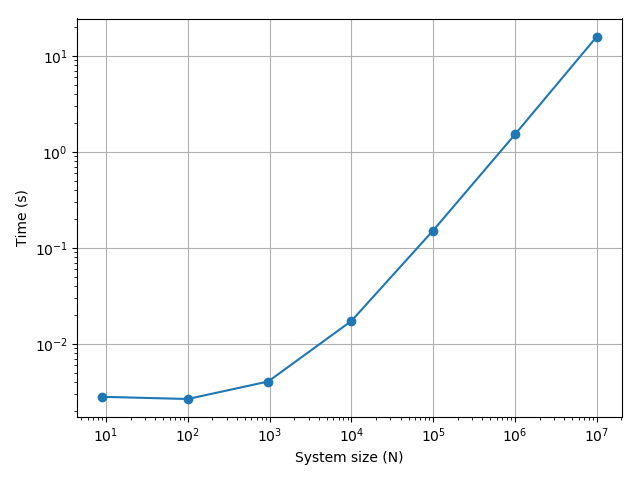
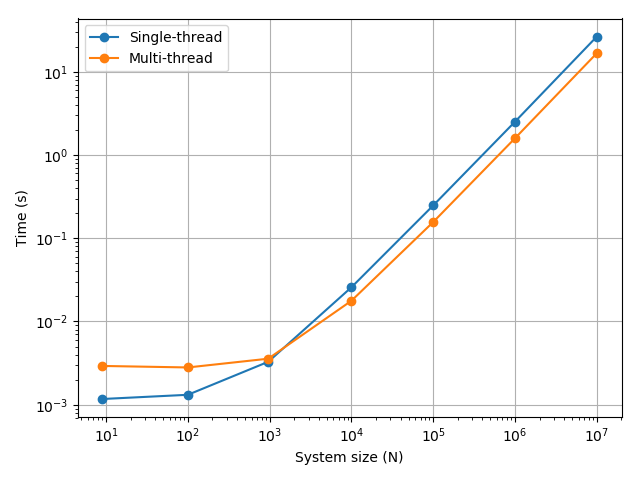
better dtypes

Changed region(s): [[0.0625, 0.0625, 0.9688, 0.8438], [0.0625, 0.6562, 0.125, 0.875], [0.1562, 0.875, 0.1875, 0.9375]]

diff --git a/lattpy/utils.py b/lattpy/utils.py
@@ -91,6 +91,34 @@ def split_index(index):
     return index[:-1], index[-1]
 
 
+def min_dtype(a: Union[int, float, np.ndarray, Iterable],
+              signed: Optional[bool] = True) -> np.dtype:
+    """Returns the minimum required dtype to store the given values.
+
+    Parameters
+    ----------
+    a : array_like
+        One or more values for determining the dtype.
+        Should contain the maximal expected values.
+    signed : bool, optional
+        If `True` the dtype is forced to be signed. The default is `True`.
+
+    Returns
+    -------
+    dtype : dtype
+        The required dtype.
+    """
+    if signed:
+        a = -np.max(np.abs(a))-1
+    else:
+        amin, amax = np.min(a), np.max(a)
+        if amin < 0:
+            a = - amax - 1 if abs(amin) <= amax else amin
+        else:
+            a = amax
+    return np.dtype(np.min_scalar_type(a))
+
+
 def interweave(arrays: Sequence[np.ndarray]) -> np.ndarray:
     """ Interweaves multiple arrays along the first axis
 
@@ -138,10 +166,7 @@ def vindices(limits: Iterable[Sequence[int]], sort_axis: Optional[int] = 0,
     vectors: (N, D) np.ndarray
     """
     if dtype is None:
-        # Estimate needed data type. Use the negative of the maximal
-        # absolute value to force data type to be signed
-        dtype = str(np.min_scalar_type(-np.max(np.abs(limits))))
-        dtype = dtype[1:] if dtype.startswith("u") else dtype
+        dtype = min_dtype(limits, signed=True)
     limits = np.asarray(limits)
     dim = limits.shape[0]
 

diff --git a/examples/graphene.py b/examples/graphene.py
@@ -1,0 +1,42 @@
+# coding: utf-8
+#
+# This code is part of lattpy.
+#
+# Copyright (c) 2021, Dylan Jones
+#
+# This code is licensed under the MIT License. The copyright notice in the
+# LICENSE file in the root directory and this permission notice shall
+# be included in all copies or substantial portions of the Software.
+
+from lattpy import Atom, Lattice
+import matplotlib.pyplot as plt
+
+A = 1.0
+ATOM_1 = Atom("C_1", color="C0")
+ATOM_2 = Atom("C_2", color="C0")
+
+# Construct graphene lattice with nearest neighbours
+latt = Lattice.hexagonal(A)
+latt.add_atom([0, 0], atom=ATOM_1)
+latt.add_atom([A, 0], atom=ATOM_2)
+latt.set_num_neighbours(1)
+
+# Build the lattice in a square
+latt.build((10, 10))
+
+# Plot the lattice
+ax = latt.plot(show=False, legend=False)
+ax.set_title("Graphene Lattice")
+ax.set_xlabel("$x$")
+ax.set_ylabel("$y$")
+ax.get_figure().tight_layout()
+
+# Plot 1. Brillouin zone of lattice
+bz = latt.brillouin_zone()
+
+ax = bz.draw(color="r")
+ax.set_title("1. Brillouin zone of graphene")
+ax.set_xlabel("$k_x$")
+ax.set_ylabel("$k_y$")
+
+plt.show()

diff --git a/tests/test_utils.py b/tests/test_utils.py
@@ -14,6 +14,22 @@ from numpy.testing import assert_array_equal
 from lattpy import utils
 
 
+@mark.parametrize("a, signed, result", [
+    (+127,          False,     np.uint8),
+    (-127,          False,     np.int8),
+    (+127,          True,      np.int8),
+    (+128,          False,     np.uint8),
+    (-128,          False,     np.int8),
+    (+128,          True,      np.int16),
+    ([-128, 127],   False,     np.int8),
+    ([-128, 128],   False,     np.int16),
+    ([-129, 127],   False,     np.int16),
+    ([+30,  127],   False,     np.uint8),
+])
+def test_min_dtype(a, signed, result):
+    assert utils.min_dtype(a, signed) == result
+
+
 @mark.parametrize("arrays, result", [
     (([1, 3], [2, 4]),           [1, 2, 3, 4]),
     (([1, 4], [2, 5], [3, 6]),   [1, 2, 3, 4, 5, 6]),

diff --git a/lattpy/spatial.py b/lattpy/spatial.py
@@ -219,6 +219,12 @@ class VoronoiTree:
             if fill:
                 surfaces = np.array([self.vertices[i] for i in self.edges])
                 draw_surfaces(ax, surfaces, color=color, alpha=alpha)
+
+        if self.dim == 3:
+            ax.set_aspect("equal")
+        else:
+            ax.set_aspect("equal", "box")
+
         return ax
 
     def __repr__(self):

diff --git a/lattpy/__init__.py b/lattpy/__init__.py
@@ -14,6 +14,7 @@ from .utils import (
     logger,
     LatticeError,
     ConfigurationError,
+    min_dtype,
     interweave,
     vrange,
     vindices,

diff --git a/README.md b/README.md
@@ -152,7 +152,7 @@ are shown in the following plot:
 Note that the overhead of the multi-thread neighbour search results in a slight 
 increase of the build time for small systems. By using `num_jobs=1` in the `build`-method
 this overhead can be eliminated for small systems. By passing `num_jobs=-1` all cores
-of the system is used (faster large systems).
+of the system is used.
 
 
 Examples
